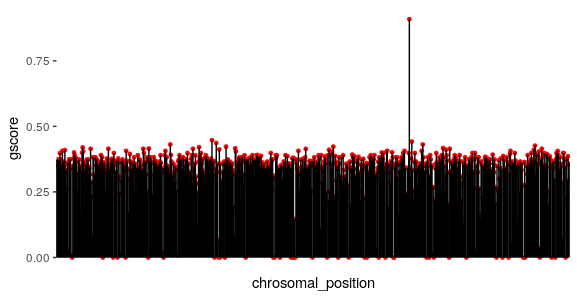
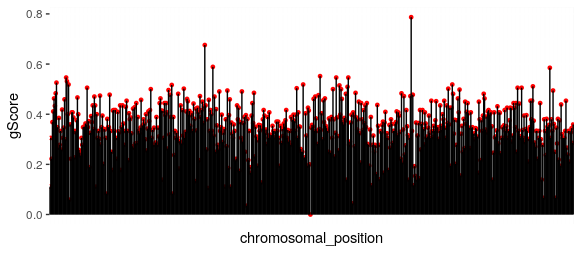
add CITATION, edit README, change Rplot_GWS image

diff --git a/README.md b/README.md
@@ -37,6 +37,8 @@ lsf.str("package:SNPgrou")
 - plotGws
 - summaryGws
 - is.gScore
+- summarySNP
+- is.SNP
 
 The function prep() transform the data to class "SNP" object, with alleles separated by "/". The function snpgrou() input data prepared by prep function, use linear discriminant analysis to classify response phenotype according to genotype SNP, the response have more than two levels, genotype allow multi-allelic. The result of this function is a set of gScores for each locus, which is a metric for how strongly a locus is related to the phenotype. The function gws() accept input of genome wide SNP data and use snpgrou function to calculate and visualize the gScore of all loci.
 
@@ -81,10 +83,10 @@ snpgrou(geneSNP2,100)
 The result shows snp10002 has the highest gScore and geneSNP data has higher score compared to geneSNP2, consistent with the visualization.
 
 The result of gws function using hapData, is the a computation of genome-wide gScores of every loci, return an object of class "gScore". The values of these gScores can be viewed by running summaryGws(gScores); if using plotGws(gScore) to plot the gScores, the result will be like: 
+
 ![](./inst/extdata/Rplot_GWS.png) 
 
 ## Things to do
-- Add summary.snp function for a summary of type SNP data
 - Add associate function for phenotype to single biallelic locus association, adapt to dominant, recessive, multiplicative, additive and over-dominant inheritence models.
 - A statistical analysis paper 
 
